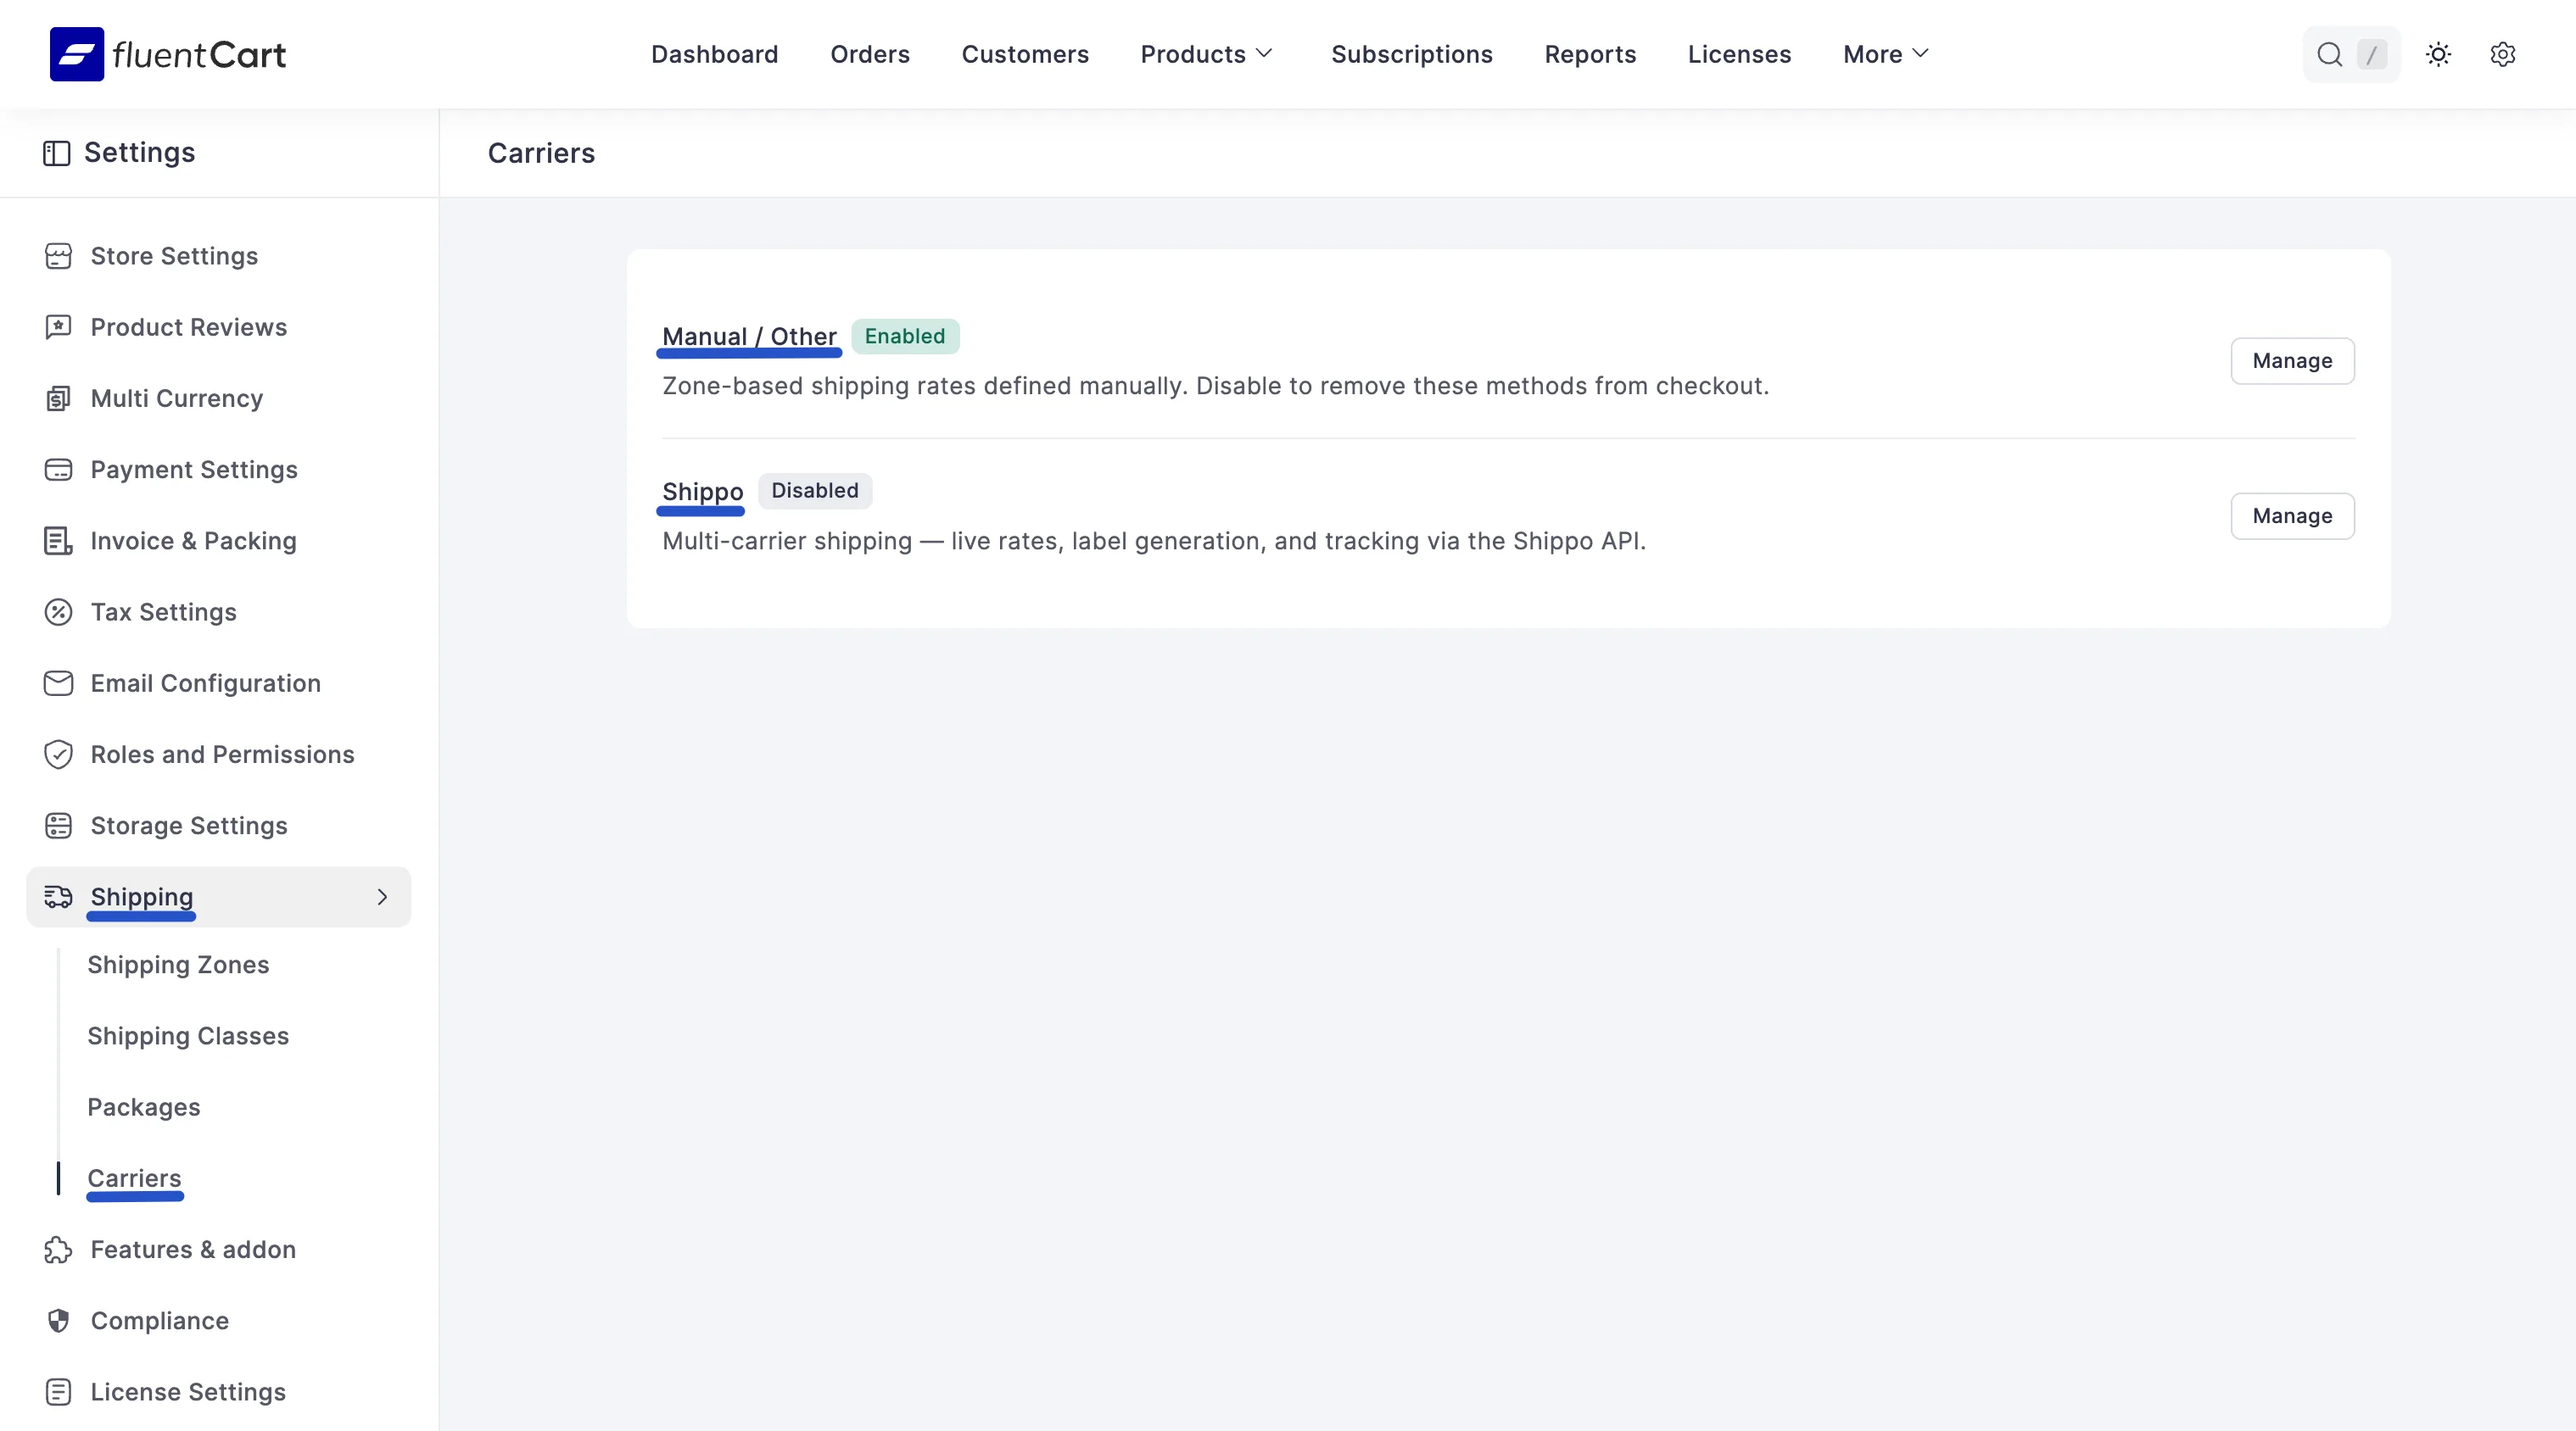
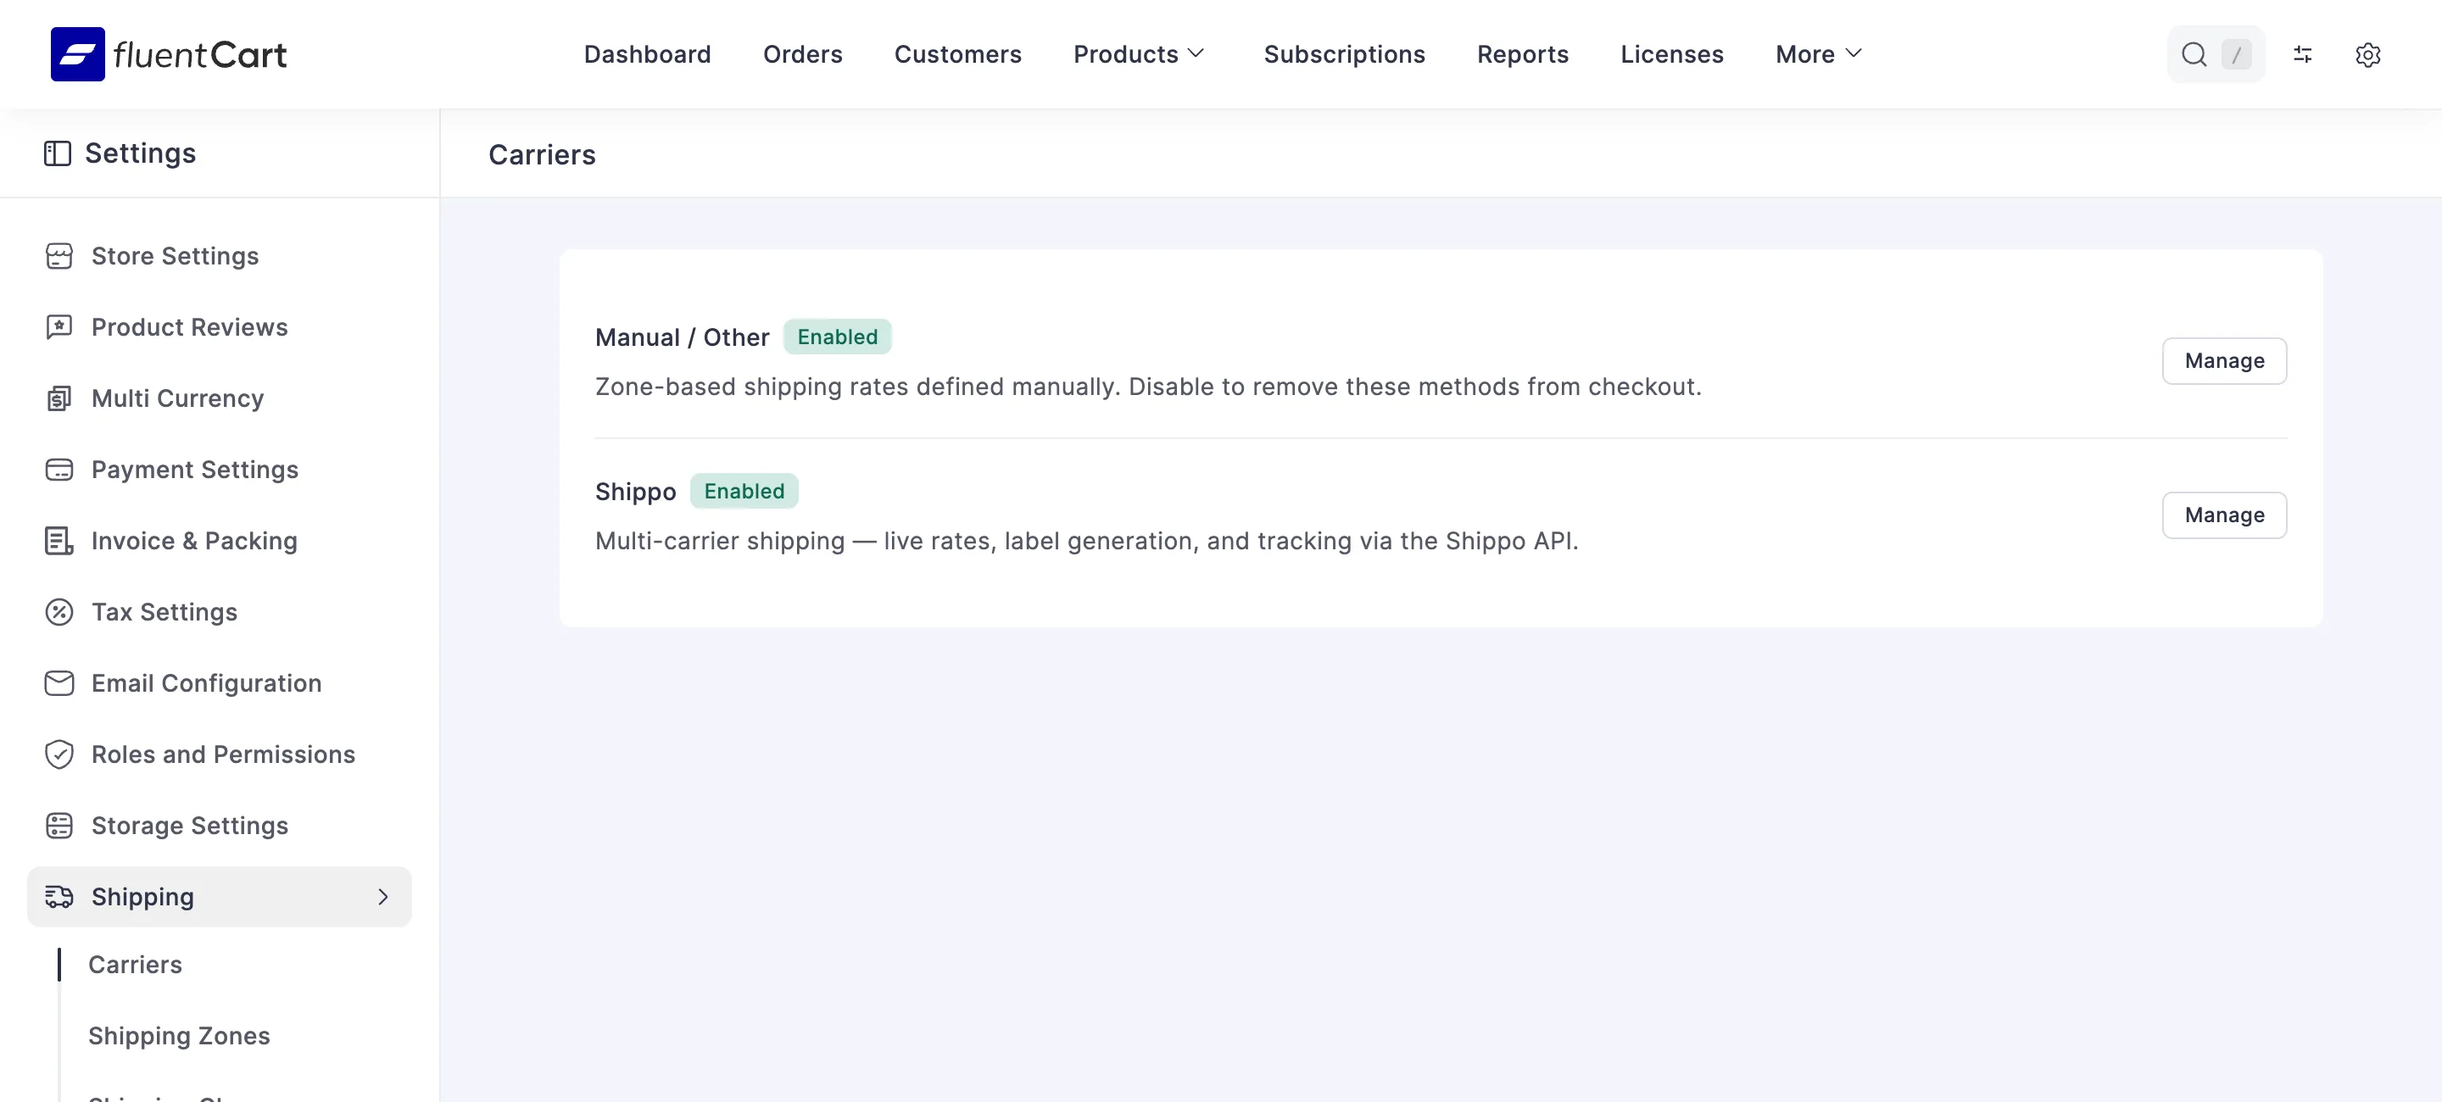
Update shipping carrier documentation
Refresh carrier screenshots and document the new Manual / Other settings flow, relocated shipping zones, carrier attention status, and settings save behavior.

diff --git a/guide/shipping/shipping-carriers.md b/guide/shipping/shipping-carriers.md
@@ -39,32 +39,46 @@ Once the add-on is active, a **Shippo** row appears on the **Carriers** page und
 
 ## Understanding the Carriers Page
 
-Go to **FluentCart Pro > Settings > Shipping > Carriers** to see every carrier available in your store. Each carrier has a status badge (**Enabled** or **Disabled**) and a **Manage** button.
+Go to **FluentCart Pro > Settings > Shipping** to open the **Carriers** page. Clicking **Shipping** in the settings menu opens it directly, and **Carriers** is the first item under it. Each carrier has a status badge (**Enabled** or **Disabled**) and a **Manage** button.
 
 ![Screenshot of the Carriers page listing Manual / Other and Shippo](/images/shipping/shipping-carriers/carriers-list.webp)
 
 The Carriers page is part of FluentCart's shipping settings, so it is always there. Without the add-on it lists only **Manual / Other**. With the add-on installed, two carriers are listed:
 
-* **Manual / Other:** The zone-based shipping rates you define yourself. This is the shipping system FluentCart has always had.
+* **Manual / Other:** The zone-based shipping rates you define yourself. This is the shipping system FluentCart has always had, and it is now where your shipping zones live.
 * **Shippo:** Live rates, label generation, and tracking through the Shippo API. It stays **Disabled** until you connect it.
+
+If a carrier is enabled but something stops it from working, such as a missing token or an incomplete store address, its row also shows a **Needs attention** badge.
 
 Carrier settings contain API tokens, so only users who can manage sensitive store settings can open the Carriers page.
 
-The **Shipping** menu also contains **Shipping Zones**, **Shipping Classes**, and **Packages**. These keep working as before and are covered in their own guides.
+The **Shipping** menu also contains **Shipping Zones**, **Shipping Classes**, and **Packages**. Shipping classes and packages work as before and are covered in their own guides.
 
-### Manual / Other
+### Saving Carrier Settings
 
-Click **Manage** next to **Manual / Other** to open its settings.
+Each carrier's settings page is split into section cards. As soon as you change a field, an **Unsaved Changes** bar appears with **Discard** and **Save** buttons, and the **Discard** and **Save settings** buttons at the bottom of the page become active. You can also press `⌘S` (or `Ctrl+S`). Until you save or discard, FluentCart keeps you on the page, so you cannot lose your edits by clicking another menu item.
+
+## Manual / Other
+
+Click **Manage** next to **Manual / Other** to open its settings. This page holds your shipping zones.
 
 ![Screenshot of the Manual / Other carrier settings with the shipping zones list](/images/shipping/shipping-carriers/manual-other-carrier.webp)
 
-* **Enable Manual Shipping:** When this toggle is on, your zone-based shipping methods appear at checkout. Turn it off to remove them from checkout.
+* **Enable Manual Shipping:** When this toggle is on, your zone-based shipping methods appear at checkout. Turn it off to remove them from checkout, then click **Save settings**.
 
 Below the toggle, the **Shipping Zones** list shows the general zones that apply to all products, with each zone's name, country, and number of shipping methods. You can search by zone name, add a zone with **Add Shipping Zone**, or use the edit and delete icons in the **Actions** column. See [Configuring Shipping Zones](/guide/shipping/configuring-shipping-zones) for the full walkthrough.
 
 ::: info
 Turning **Enable Manual Shipping** off removes your zone-based methods from checkout. Leave it on if you want customers to see your own zone methods next to the live Shippo rates.
 :::
+
+### Where Did Shipping Zones Go?
+
+Shipping zones used to have their own page under **Settings > Shipping > Shipping Zones**. They are now part of the **Manual / Other** carrier. The **Shipping Zones** menu item is still there for old bookmarks, but it now shows a **Shipping zones have moved** notice with the new path. Click **Go to Manual carrier** to open your zones.
+
+![Screenshot of the Shipping zones have moved notice with the Go to Manual carrier button](/images/shipping/shipping-carriers/shipping-zones-moved.webp)
+
+Links elsewhere in FluentCart, such as **Add Shipping** on a product or the "no shipping methods" link on an order, now take you to the Manual / Other page as well.
 
 ## Fulfilling Orders with a Carrier
 
